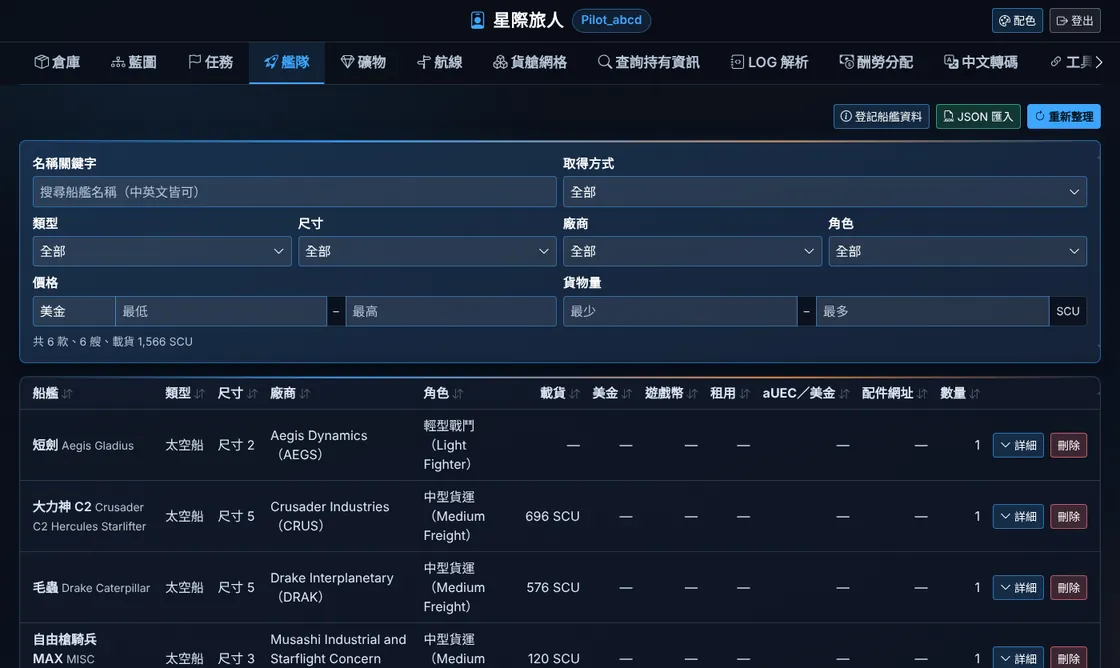
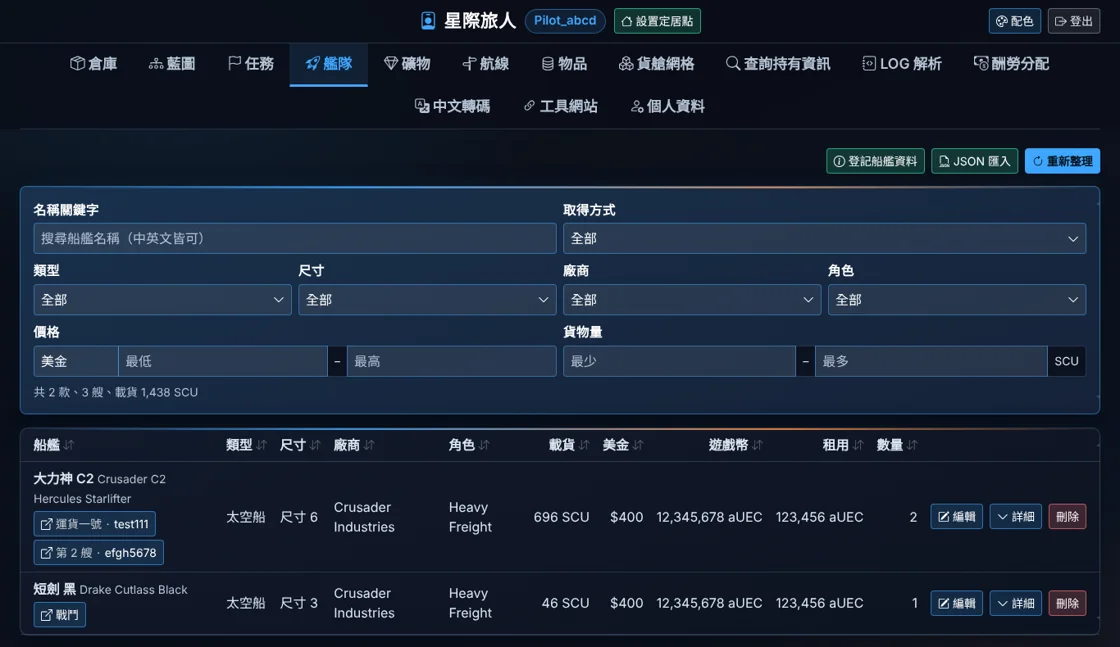
說明文件更新艦隊配件網址與編輯視窗

diff --git a/frontend/src/views/PlayerHelpView.vue b/frontend/src/views/PlayerHelpView.vue
@@ -132,7 +132,8 @@ const sections = [
     blocks: [
       { title: '我的艦隊', figs: [{ src: 'fleet', alt: '我的艦隊' }], items: [
         '列出你登記的船／載具：類型、尺寸、廠商、角色、貨物量、美金與遊戲幣價格、租用價格。',
-        '可以設定數量、每一艘的識別名稱，以及配件網址（例如 erkul 的配裝連結）。',
+        '配件網址（例如 erkul 的配裝連結）直接顯示在船名下面，按了開新頁；同款有好幾艘時，按鈕前面會標是哪一艘。',
+        '按「編輯」跳出視窗，設定數量（同款好幾艘）、每一艘的識別名稱與配件網址，也可以只刪其中一艘；「詳細」看船艦資訊。',
         '「航線」與「貨艙網格」會把機庫裡的船排在最前面。',
       ] },
       { title: '登記船艦資料', items: [
